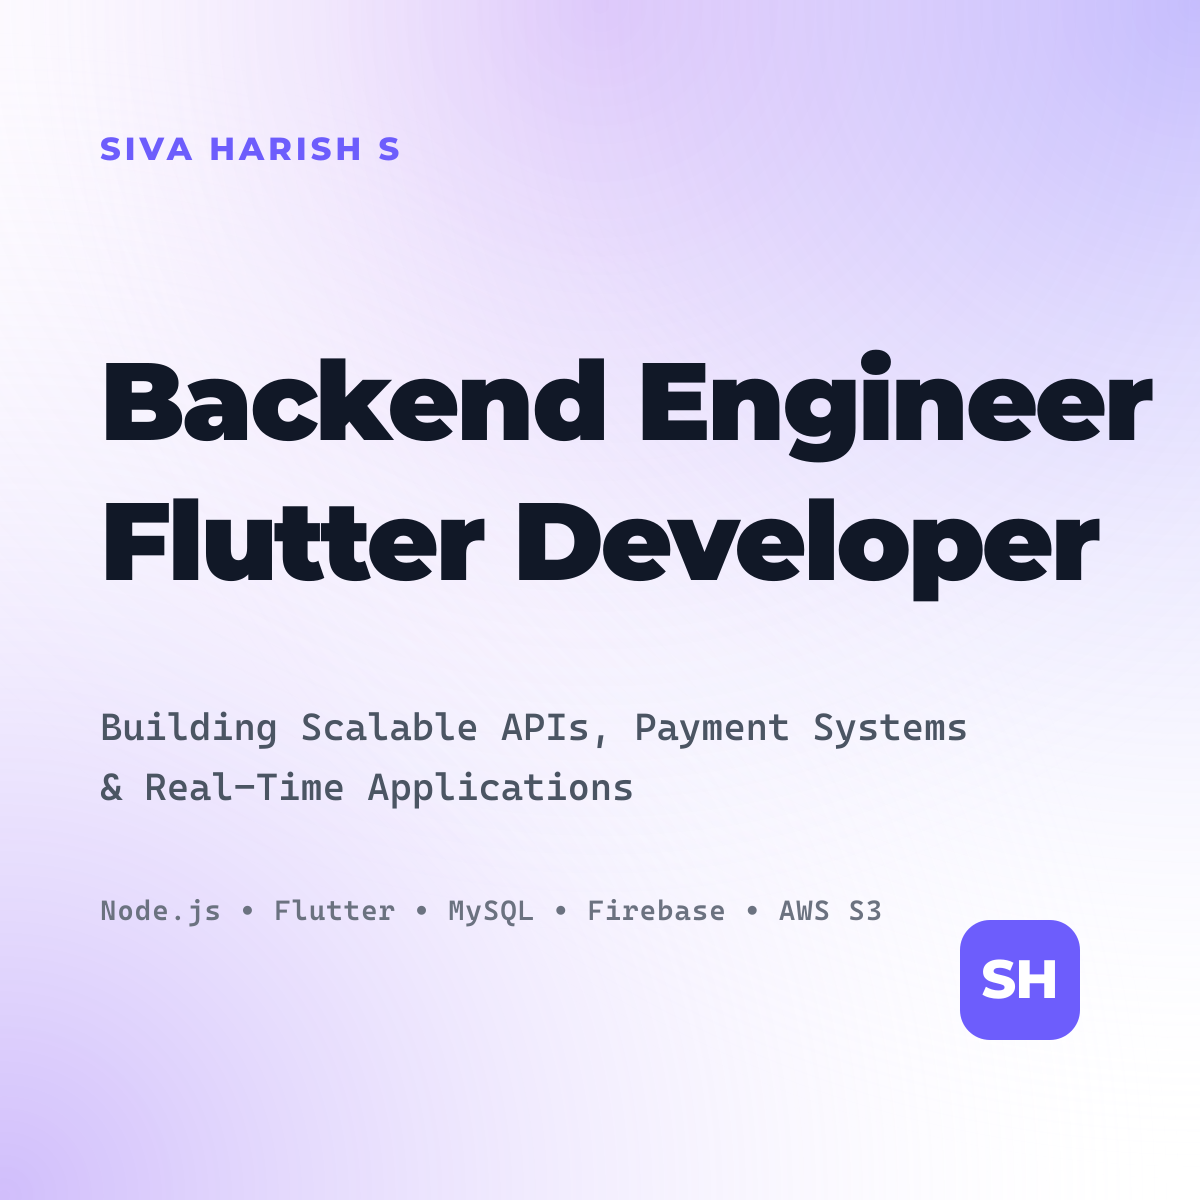
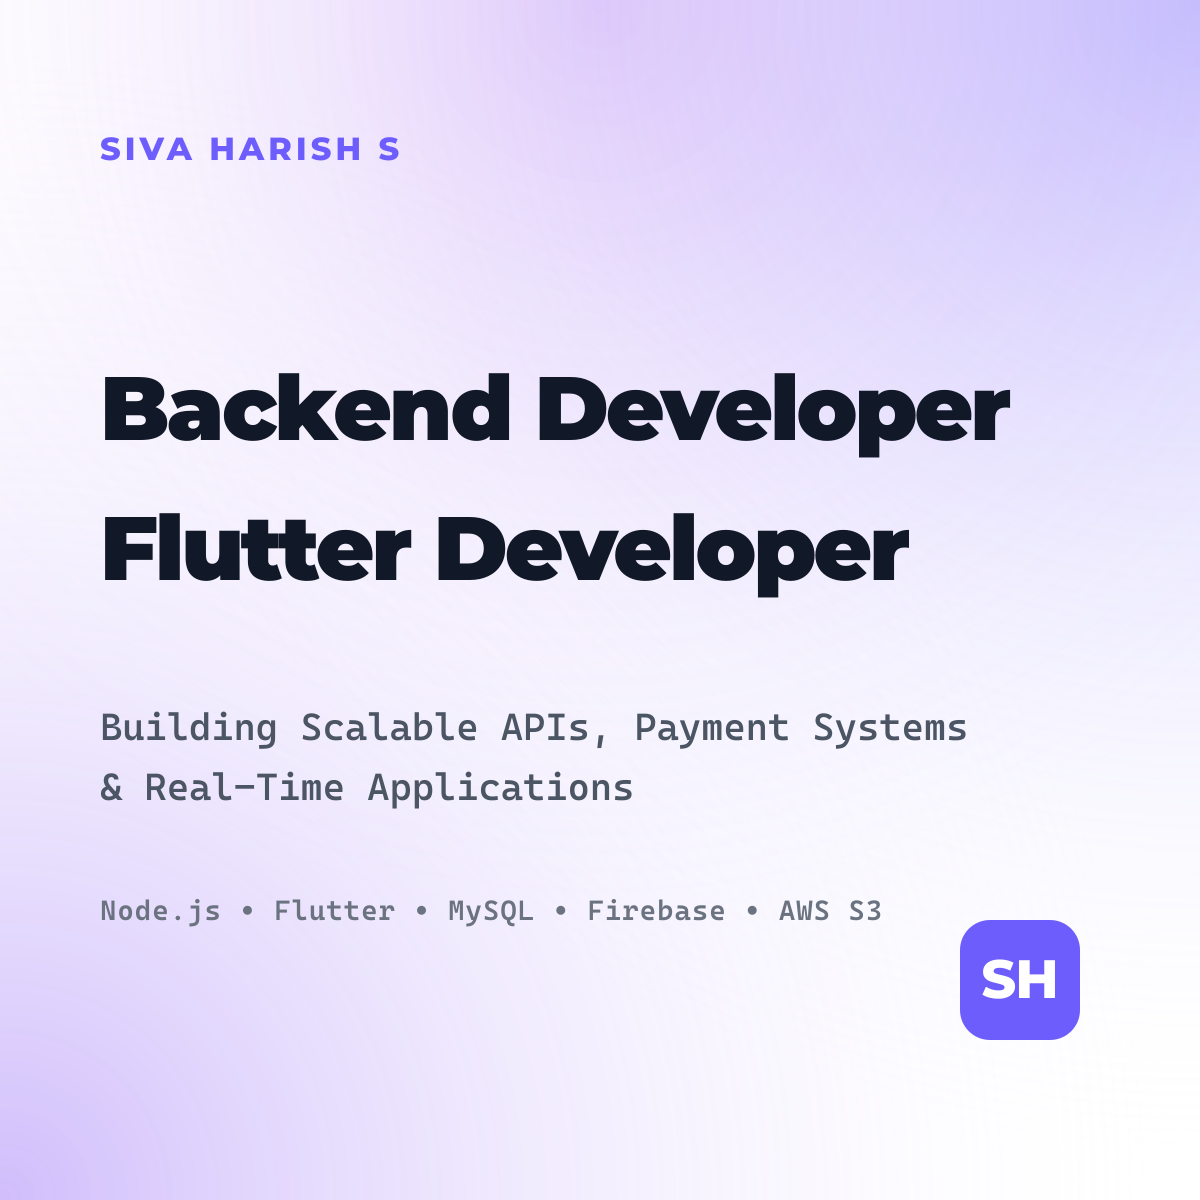
update Open Graph Image

Changed region(s): [[0.0925, 0.2775, 0.9558, 0.5242]]

diff --git a/generate-og-square.js b/generate-og-square.js
@@ -1,0 +1,55 @@
+const sharp = require('sharp');
+
+const svgSquare = `
+<svg width="1200" height="1200" viewBox="0 0 1200 1200" xmlns="http://www.w3.org/2000/svg">
+  <!-- Background -->
+  <rect width="1200" height="1200" fill="#ffffff"/>
+  
+  <!-- Soft purple gradient accents -->
+  <defs>
+    <radialGradient id="grad1" cx="0%" cy="100%" r="100%">
+      <stop offset="0%" stop-color="#8B5CF6" stop-opacity="0.4"/>
+      <stop offset="100%" stop-color="#ffffff" stop-opacity="0"/>
+    </radialGradient>
+    <radialGradient id="grad2" cx="100%" cy="0%" r="100%">
+      <stop offset="0%" stop-color="#6D5DFC" stop-opacity="0.4"/>
+      <stop offset="100%" stop-color="#ffffff" stop-opacity="0"/>
+    </radialGradient>
+    <radialGradient id="grad3" cx="50%" cy="0%" r="80%">
+      <stop offset="0%" stop-color="#9333EA" stop-opacity="0.2"/>
+      <stop offset="100%" stop-color="#ffffff" stop-opacity="0"/>
+    </radialGradient>
+  </defs>
+  <rect width="1200" height="1200" fill="url(#grad1)"/>
+  <rect width="1200" height="1200" fill="url(#grad2)"/>
+  <rect width="1200" height="1200" fill="url(#grad3)"/>
+
+  <!-- Top Left: SIVA HARISH S -->
+  <text x="100" y="160" font-family="system-ui, -apple-system, sans-serif" font-weight="800" font-size="32" fill="#6D5DFC" letter-spacing="4">SIVA HARISH S</text>
+
+  <!-- Main heading -->
+  <text x="100" y="440" font-family="system-ui, -apple-system, sans-serif" font-weight="900" font-size="90" fill="#111827" letter-spacing="-3">Backend Developer</text>
+  <text x="100" y="580" font-family="system-ui, -apple-system, sans-serif" font-weight="900" font-size="90" fill="#111827" letter-spacing="-3">Flutter Developer</text>
+
+  <!-- Subheading -->
+  <text x="100" y="740" font-family="system-ui, -apple-system, sans-serif" font-weight="500" font-size="38" fill="#4B5563">Building Scalable APIs, Payment Systems</text>
+  <text x="100" y="800" font-family="system-ui, -apple-system, sans-serif" font-weight="500" font-size="38" fill="#4B5563">&amp; Real-Time Applications</text>
+
+  <!-- Bottom tech stack -->
+  <text x="100" y="920" font-family="system-ui, -apple-system, sans-serif" font-weight="600" font-size="28" fill="#6B7280" letter-spacing="1">Node.js • Flutter • MySQL • Firebase • AWS S3</text>
+
+  <!-- Bottom right: SH monogram -->
+  <rect x="960" y="920" width="120" height="120" rx="30" fill="#6D5DFC"/>
+  <text x="1020" y="998" font-family="system-ui, -apple-system, sans-serif" font-weight="800" font-size="54" fill="#ffffff" text-anchor="middle" letter-spacing="-1">SH</text>
+</svg>
+`;
+
+sharp(Buffer.from(svgSquare))
+  .png()
+  .toFile('public/og-image-square.png')
+  .then(() => {
+    console.log('Successfully generated public/og-image-square.png');
+  })
+  .catch(err => {
+    console.error('Error generating image:', err);
+  });

diff --git a/generate-og.js b/generate-og.js
@@ -28,7 +28,7 @@ const svg = `
   <text x="80" y="100" font-family="system-ui, -apple-system, sans-serif" font-weight="800" font-size="24" fill="#6D5DFC" letter-spacing="4">SIVA HARISH S</text>
 
   <!-- Main heading -->
-  <text x="80" y="240" font-family="system-ui, -apple-system, sans-serif" font-weight="900" font-size="96" fill="#111827" letter-spacing="-3">Backend Engineer</text>
+  <text x="80" y="240" font-family="system-ui, -apple-system, sans-serif" font-weight="900" font-size="96" fill="#111827" letter-spacing="-3">Backend Developer</text>
   <text x="80" y="340" font-family="system-ui, -apple-system, sans-serif" font-weight="900" font-size="96" fill="#111827" letter-spacing="-3">Flutter Developer</text>
 
   <!-- Subheading -->
